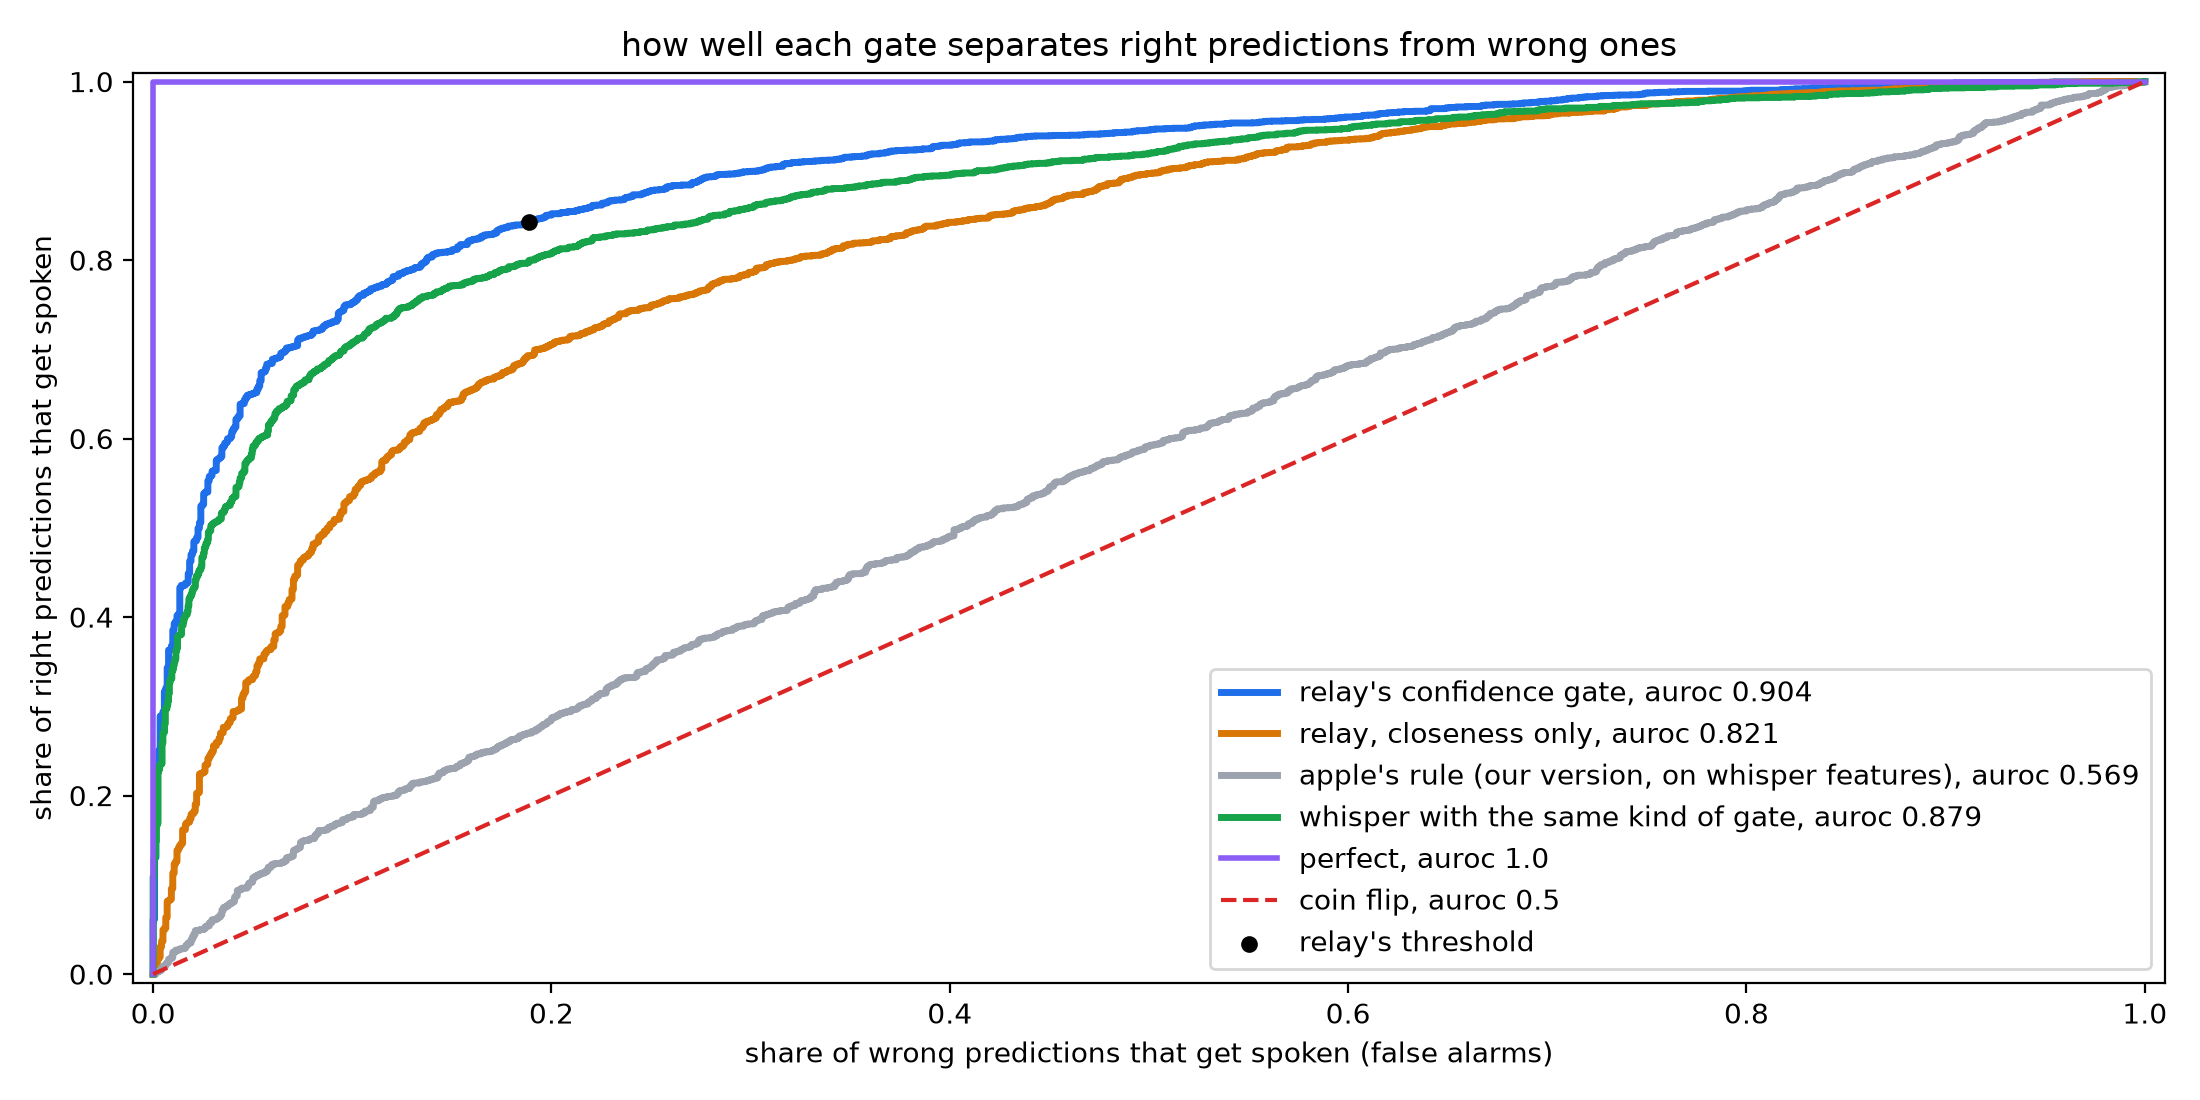
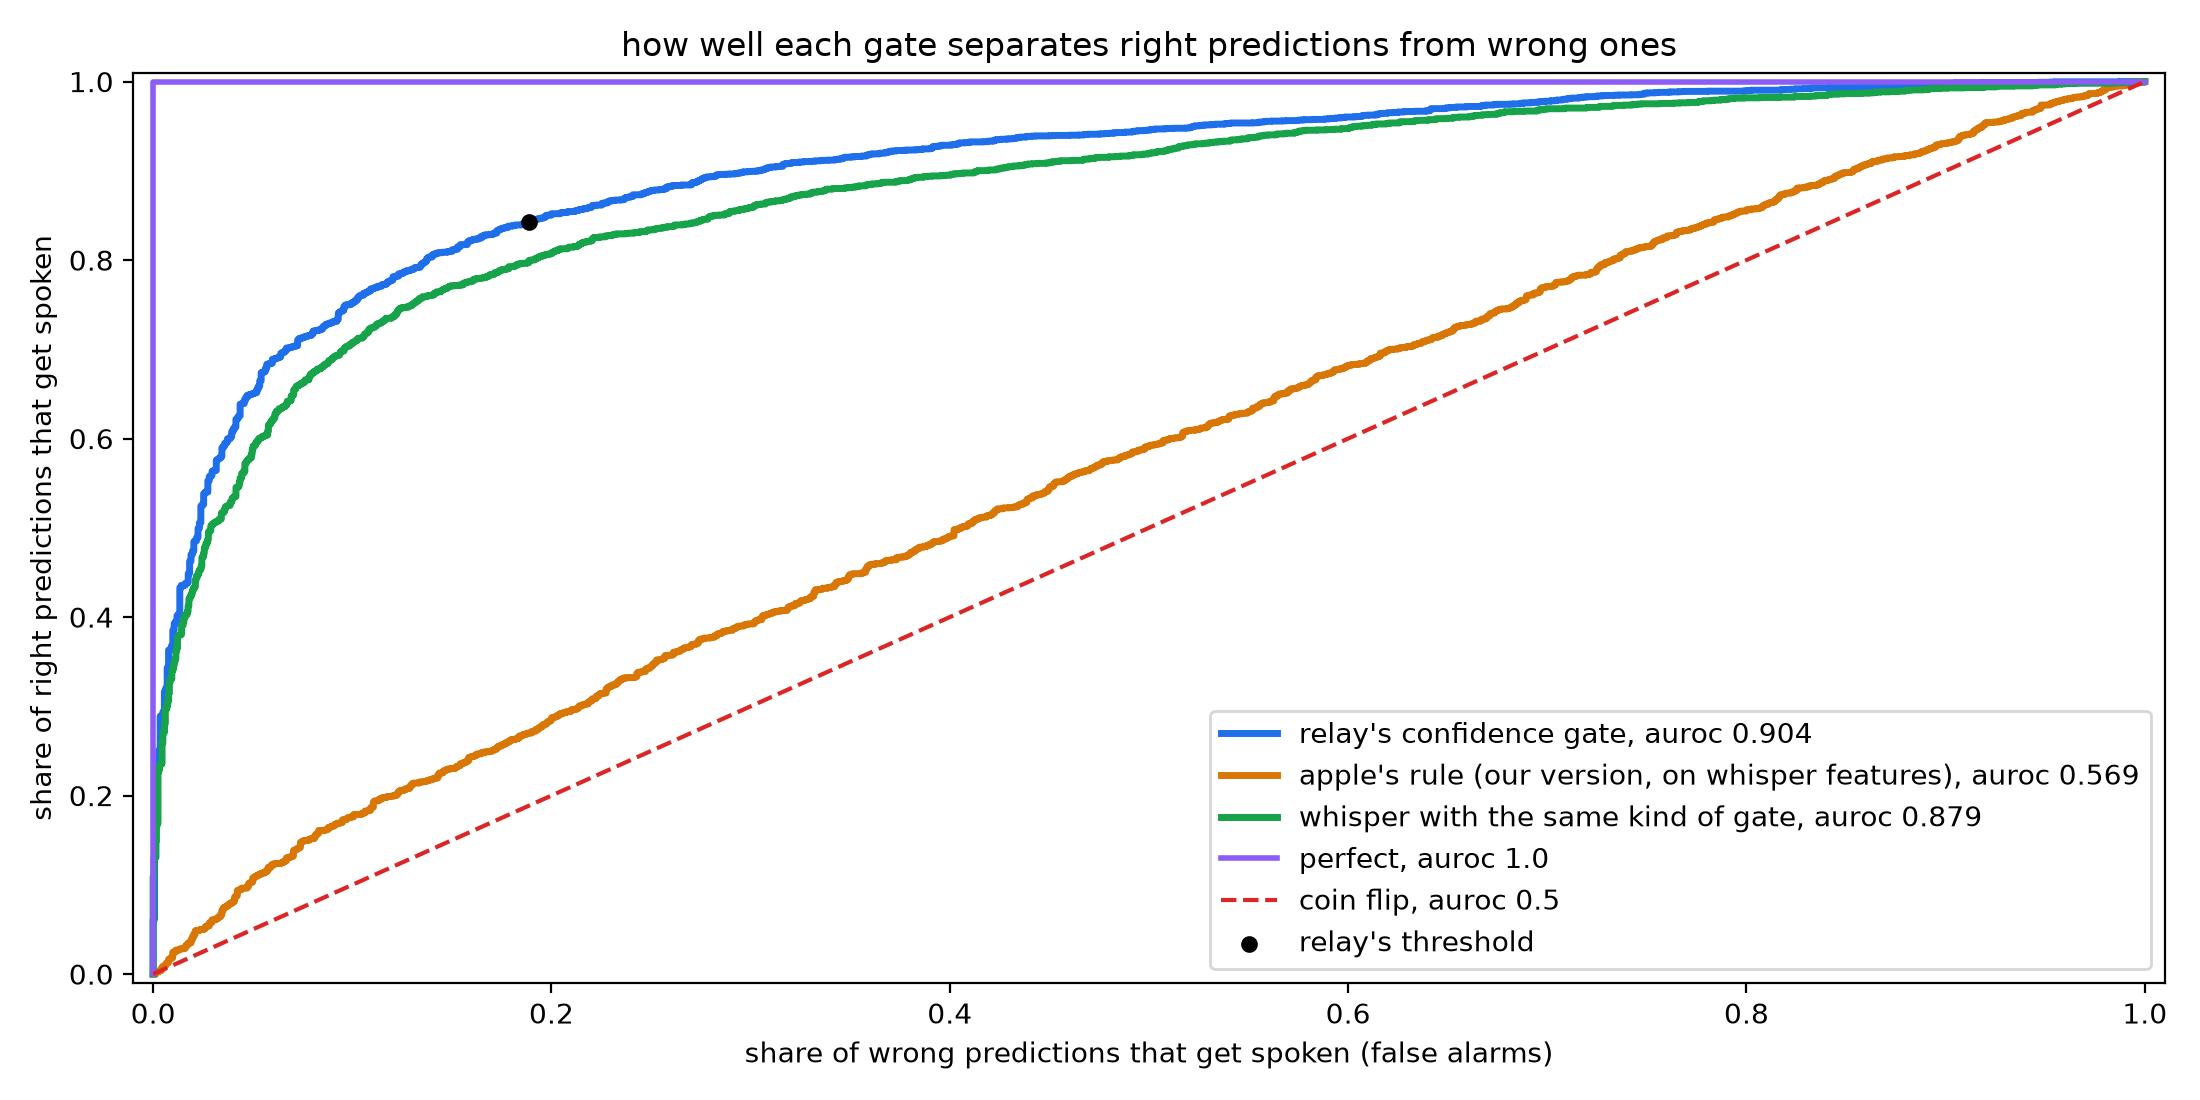
update roc curve

diff --git a/readme.md b/readme.md
@@ -70,7 +70,7 @@ all numbers are on the same 5,149 test recordings from the 27 speakers with dysa
 
 false alarms (relay speaks a wrong word) drop from 27.6% of all tries without the gate to 5.0% and land right at the 5% target even though the threshold was set on other speakers. missed cases (relay shows three even though its prediction was right) are 11.4% of tries. when relay shows three, the right word is among them 56.1% of the time, and if relay had spoken its best guess instead it would be right only 33.6% of the time. in total, the right word is spoken or shown on 80.1% of all tries.
 
-to check how well the confidence score separates right predictions from wrong ones, we used auroc. if you pick one try where relay was right and one where it was wrong, auroc is how often the gate gives the right one the higher score. relay's gate scores **0.904**, so about 9 times out of 10. using closeness alone scores 0.821, so the other four clues add a lot. putting the same gate on whisper scores 0.879. our version of apple's rule, run on the same whisper features, scores 0.569.
+to check how well the confidence score separates right predictions from wrong ones, we used auroc. if you pick one try where relay was right and one where it was wrong, auroc is how often the gate gives the right one the higher score. relay's gate scores **0.904**, so about 9 times out of 10. putting the same gate on whisper scores 0.879. our version of apple's rule, run on the same whisper features, scores 0.569.
 
 <img src="roc.png" width="100%" alt="roc curve of the confidence gate">
 
